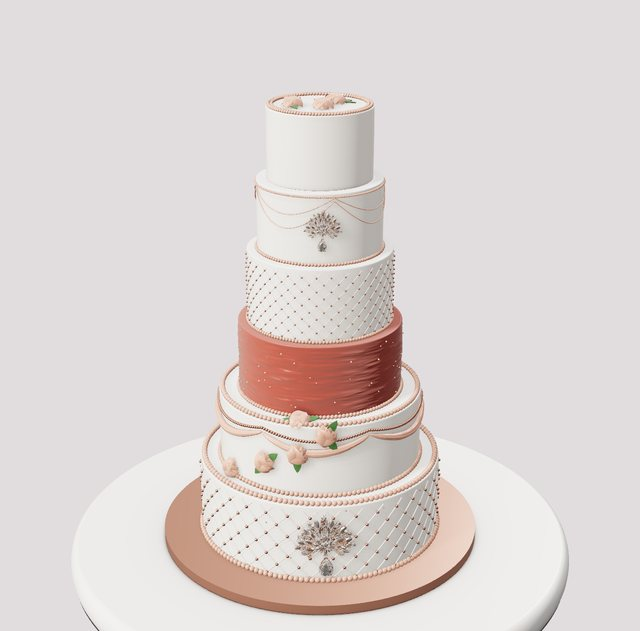
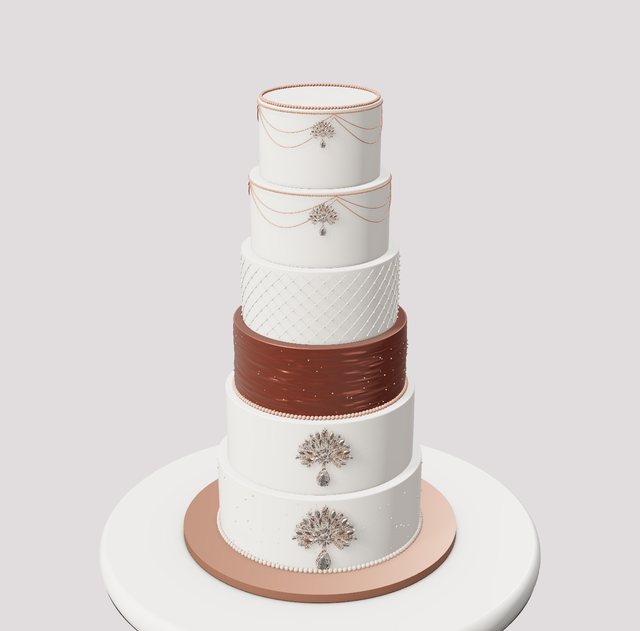
Rose gold: tier order and jewels matched to the photo (pearl-dot base, brooch bursts, copper luster, quilted pearls, jewel-chain top tiers)
Claude-Session: https://claude.ai/code/session_016sN14hzH19WJ5zrp8o2QGp

diff --git a/studio.html b/studio.html
@@ -1676,13 +1676,13 @@ THEMES.unshift(
   newTier(8.6,5.2,{color:'#fbf8f2',finish:'fondant',texture:'vruffles',edgeColor:'#c8a46a',vr:{c:135,w0:105,w1:40},top:'none',bottom:'none'}),
   newTier(7.4,5,{color:'#fbf8f2',finish:'fondant',top:'none',bottom:'none',stencil:{pattern:'lace',color:'#e6dccd',size:2.2,height:2.6,y:1.1}}),
   newTier(6.2,5.4,{color:'#fbf8f2',finish:'fondant',top:'none',bottom:'none',decor:[DC('scripttop','cluster',1,{color:'#e2ae96',size:380,center:true,face:95,text:'forever|eva'})]})]}},
- {key:'sig_rosegold',name:'Rose Gold Jewels',tag:SIG,blurb:'Six tiers of quilted ivory, jeweled chain swags, a rose gold glitter tier and rhinestone brooch bursts with rose gold roses.',d:{board:'rosegold',topper:'none',tiers:[
-  newTier(12,4,{color:'#fbf8f2',finish:'fondant',side:'quilted',sideColor:'#fbf8f2',pearlColor:'#d9a08a',top:'pearls',pipe:'#d9a08a',bottom:'pearls',bottomColor:'#d9a08a',decor:[DC('mx_brooch','band',1,{size:330,rot:55}),DC('dragees','scatter',40,{color:'#d9a08a',size:45})]}),
-  newTier(10,3.6,{color:'#fbf8f2',finish:'fondant',side:'swags',sideColor:'#d9a08a',pearlColor:'#d9a08a',top:'pearls',pipe:'#d9a08a',bottom:'pearls',bottomColor:'#d9a08a',decor:[DC('roses','cascade',5,{color:'#d9a08a',size:130,rot:-30})]}),
-  newTier(8,3.6,{color:'#98483d',finish:'fondant',texture:'stucco',top:'dpearls',topColor:'#d9a08a',bottom:'pearls',bottomColor:'#d9a08a',decor:[DC('dragees','scatter',110,{color:'#e8b9a3',size:45})]}),
-  newTier(7,3.6,{color:'#fbf8f2',finish:'fondant',side:'quilted',sideColor:'#fbf8f2',pearlColor:'#d9a08a',top:'none',bottom:'pearls',bottomColor:'#d9a08a'}),
-  newTier(6,3.4,{color:'#fbf8f2',finish:'fondant',side:'strings',pipe:'#d9a08a',top:'pearls',pipe2:'#d9a08a',bottom:'pearls',bottomColor:'#d9a08a',decor:[DC('mx_brooch','band',1,{size:200,rot:55})]}),
-  newTier(5,3.4,{color:'#fbf8f2',finish:'fondant',top:'dpearls',topColor:'#d9a08a',bottom:'none',decor:[DC('roses','cluster',3,{color:'#d9a08a',size:130})]})]}},
+ {key:'sig_rosegold',name:'Rose Gold Jewels',tag:SIG,blurb:'Six ivory tiers: pearl dots and a jeweled brooch at the base, a rhinestone burst, a copper glitter tier, quilted pearls, and two top tiers draped in rose gold jewel chains.',d:{board:'rosegold',topper:'none',tiers:[
+  newTier(11,4.2,{color:'#fbf8f2',finish:'fondant',top:'pearls',pipe:'#e3c9b8',bottom:'pearls',bottomColor:'#e3c9b8',decor:[DC('mx_brooch','band',1,{size:380,rot:55}),DC('dragees','scatter',70,{color:'#e3c9b8',size:55})]}),
+  newTier(10,4,{color:'#fbf8f2',finish:'fondant',top:'pearls',pipe:'#e3c9b8',bottom:'none',decor:[DC('mx_brooch','band',1,{size:330,rot:55,y:.2})]}),
+  newTier(9,3.8,{color:'#93503f',finish:'metallic',texture:'stucco',top:'pearls',pipe:'#d9a08a',bottom:'pearls',bottomColor:'#d9a08a',decor:[DC('dragees','scatter',140,{color:'#c98a73',size:45})]}),
+  newTier(8,3.8,{color:'#fbf8f2',finish:'fondant',side:'quilted',sideColor:'#fbf8f2',pearlColor:'#f3e9df',top:'pearls',pipe:'#f3e9df',bottom:'none'}),
+  newTier(7,3.8,{color:'#fbf8f2',finish:'fondant',side:'strings',pipe:'#c98a73',top:'pearls',pipe2:'#c98a73',bottom:'none',decor:[DC('mx_brooch','band',1,{size:170,rot:55,y:.6})]}),
+  newTier(6,3.8,{color:'#fbf8f2',finish:'fondant',side:'strings',pipe:'#c98a73',top:'pearls',pipe2:'#c98a73',bottom:'none',decor:[DC('mx_brooch','band',1,{size:140,rot:55,y:.8})]})]}},
  {key:'sig_babysky',name:'Up, Up And Away Bears',tag:SIG,blurb:'Three tall tiers airbrushed from pale sky to bright blue, covered in fondant clouds, with a ladder, a pile of gold buttons, teddy bears and ABC blocks, and a bear in a hot air balloon on top.',d:{board:'white',boardColor:'#e9eaec',topper:'none',tiers:[
   newTier(8.6,6.6,{color:'#e6f1f7',finish:'fondant',ombre:true,ombreColor:'#5aaee8',top:'none',bottom:'none',decor:[DC('clouds','scatter',22,{color:'#fbf7f1',size:190}),DC('dragees','scatter',30,{color:'#fbf7f1',size:60}),DC('mx_teddy_seated','cluster',1,{size:560,where:'board',face:55,seed:4}),DC('mx_teddy_reclining','cluster',1,{size:520,where:'board',face:55,seed:12}),DC('mx_block_c','cluster',3,{size:230,where:'board',seed:21})]}),
   newTier(7.6,6.4,{color:'#e6f1f7',finish:'fondant',ombre:true,ombreColor:'#4aa6e6',top:'none',bottom:'none',decor:[DC('clouds','scatter',18,{color:'#fbf7f1',size:190}),DC('buttons','cascade',70,{color:'#b8913f',rot:-75,size:180,wide:1.4}),DC('ladder','band',1,{color:'#fbf7f1',rot:110,size:240})]}),

diff --git a/tools/signature-decor.js b/tools/signature-decor.js
@@ -341,13 +341,13 @@ THEMES.unshift(
   newTier(8.6,5.2,{color:'#fbf8f2',finish:'fondant',texture:'vruffles',edgeColor:'#c8a46a',vr:{c:135,w0:105,w1:40},top:'none',bottom:'none'}),
   newTier(7.4,5,{color:'#fbf8f2',finish:'fondant',top:'none',bottom:'none',stencil:{pattern:'lace',color:'#e6dccd',size:2.2,height:2.6,y:1.1}}),
   newTier(6.2,5.4,{color:'#fbf8f2',finish:'fondant',top:'none',bottom:'none',decor:[DC('scripttop','cluster',1,{color:'#e2ae96',size:380,center:true,face:95,text:'forever|eva'})]})]}},
- {key:'sig_rosegold',name:'Rose Gold Jewels',tag:SIG,blurb:'Six tiers of quilted ivory, jeweled chain swags, a rose gold glitter tier and rhinestone brooch bursts with rose gold roses.',d:{board:'rosegold',topper:'none',tiers:[
-  newTier(12,4,{color:'#fbf8f2',finish:'fondant',side:'quilted',sideColor:'#fbf8f2',pearlColor:'#d9a08a',top:'pearls',pipe:'#d9a08a',bottom:'pearls',bottomColor:'#d9a08a',decor:[DC('mx_brooch','band',1,{size:330,rot:55}),DC('dragees','scatter',40,{color:'#d9a08a',size:45})]}),
-  newTier(10,3.6,{color:'#fbf8f2',finish:'fondant',side:'swags',sideColor:'#d9a08a',pearlColor:'#d9a08a',top:'pearls',pipe:'#d9a08a',bottom:'pearls',bottomColor:'#d9a08a',decor:[DC('roses','cascade',5,{color:'#d9a08a',size:130,rot:-30})]}),
-  newTier(8,3.6,{color:'#98483d',finish:'fondant',texture:'stucco',top:'dpearls',topColor:'#d9a08a',bottom:'pearls',bottomColor:'#d9a08a',decor:[DC('dragees','scatter',110,{color:'#e8b9a3',size:45})]}),
-  newTier(7,3.6,{color:'#fbf8f2',finish:'fondant',side:'quilted',sideColor:'#fbf8f2',pearlColor:'#d9a08a',top:'none',bottom:'pearls',bottomColor:'#d9a08a'}),
-  newTier(6,3.4,{color:'#fbf8f2',finish:'fondant',side:'strings',pipe:'#d9a08a',top:'pearls',pipe2:'#d9a08a',bottom:'pearls',bottomColor:'#d9a08a',decor:[DC('mx_brooch','band',1,{size:200,rot:55})]}),
-  newTier(5,3.4,{color:'#fbf8f2',finish:'fondant',top:'dpearls',topColor:'#d9a08a',bottom:'none',decor:[DC('roses','cluster',3,{color:'#d9a08a',size:130})]})]}},
+ {key:'sig_rosegold',name:'Rose Gold Jewels',tag:SIG,blurb:'Six ivory tiers: pearl dots and a jeweled brooch at the base, a rhinestone burst, a copper glitter tier, quilted pearls, and two top tiers draped in rose gold jewel chains.',d:{board:'rosegold',topper:'none',tiers:[
+  newTier(11,4.2,{color:'#fbf8f2',finish:'fondant',top:'pearls',pipe:'#e3c9b8',bottom:'pearls',bottomColor:'#e3c9b8',decor:[DC('mx_brooch','band',1,{size:380,rot:55}),DC('dragees','scatter',70,{color:'#e3c9b8',size:55})]}),
+  newTier(10,4,{color:'#fbf8f2',finish:'fondant',top:'pearls',pipe:'#e3c9b8',bottom:'none',decor:[DC('mx_brooch','band',1,{size:330,rot:55,y:.2})]}),
+  newTier(9,3.8,{color:'#93503f',finish:'metallic',texture:'stucco',top:'pearls',pipe:'#d9a08a',bottom:'pearls',bottomColor:'#d9a08a',decor:[DC('dragees','scatter',140,{color:'#c98a73',size:45})]}),
+  newTier(8,3.8,{color:'#fbf8f2',finish:'fondant',side:'quilted',sideColor:'#fbf8f2',pearlColor:'#f3e9df',top:'pearls',pipe:'#f3e9df',bottom:'none'}),
+  newTier(7,3.8,{color:'#fbf8f2',finish:'fondant',side:'strings',pipe:'#c98a73',top:'pearls',pipe2:'#c98a73',bottom:'none',decor:[DC('mx_brooch','band',1,{size:170,rot:55,y:.6})]}),
+  newTier(6,3.8,{color:'#fbf8f2',finish:'fondant',side:'strings',pipe:'#c98a73',top:'pearls',pipe2:'#c98a73',bottom:'none',decor:[DC('mx_brooch','band',1,{size:140,rot:55,y:.8})]})]}},
  {key:'sig_babysky',name:'Up, Up And Away Bears',tag:SIG,blurb:'Three tall tiers airbrushed from pale sky to bright blue, covered in fondant clouds, with a ladder, a pile of gold buttons, teddy bears and ABC blocks, and a bear in a hot air balloon on top.',d:{board:'white',boardColor:'#e9eaec',topper:'none',tiers:[
   newTier(8.6,6.6,{color:'#e6f1f7',finish:'fondant',ombre:true,ombreColor:'#5aaee8',top:'none',bottom:'none',decor:[DC('clouds','scatter',22,{color:'#fbf7f1',size:190}),DC('dragees','scatter',30,{color:'#fbf7f1',size:60}),DC('mx_teddy_seated','cluster',1,{size:560,where:'board',face:55,seed:4}),DC('mx_teddy_reclining','cluster',1,{size:520,where:'board',face:55,seed:12}),DC('mx_block_c','cluster',3,{size:230,where:'board',seed:21})]}),
   newTier(7.6,6.4,{color:'#e6f1f7',finish:'fondant',ombre:true,ombreColor:'#4aa6e6',top:'none',bottom:'none',decor:[DC('clouds','scatter',18,{color:'#fbf7f1',size:190}),DC('buttons','cascade',70,{color:'#b8913f',rot:-75,size:180,wide:1.4}),DC('ladder','band',1,{color:'#fbf7f1',rot:110,size:240})]}),

diff --git a/tools/sig-themes.js b/tools/sig-themes.js
@@ -32,13 +32,13 @@ THEMES.unshift(
   newTier(8.6,5.2,{color:'#fbf8f2',finish:'fondant',texture:'vruffles',edgeColor:'#c8a46a',vr:{c:135,w0:105,w1:40},top:'none',bottom:'none'}),
   newTier(7.4,5,{color:'#fbf8f2',finish:'fondant',top:'none',bottom:'none',stencil:{pattern:'lace',color:'#e6dccd',size:2.2,height:2.6,y:1.1}}),
   newTier(6.2,5.4,{color:'#fbf8f2',finish:'fondant',top:'none',bottom:'none',decor:[DC('scripttop','cluster',1,{color:'#e2ae96',size:380,center:true,face:95,text:'forever|eva'})]})]}},
- {key:'sig_rosegold',name:'Rose Gold Jewels',tag:SIG,blurb:'Six tiers of quilted ivory, jeweled chain swags, a rose gold glitter tier and rhinestone brooch bursts with rose gold roses.',d:{board:'rosegold',topper:'none',tiers:[
-  newTier(12,4,{color:'#fbf8f2',finish:'fondant',side:'quilted',sideColor:'#fbf8f2',pearlColor:'#d9a08a',top:'pearls',pipe:'#d9a08a',bottom:'pearls',bottomColor:'#d9a08a',decor:[DC('mx_brooch','band',1,{size:330,rot:55}),DC('dragees','scatter',40,{color:'#d9a08a',size:45})]}),
-  newTier(10,3.6,{color:'#fbf8f2',finish:'fondant',side:'swags',sideColor:'#d9a08a',pearlColor:'#d9a08a',top:'pearls',pipe:'#d9a08a',bottom:'pearls',bottomColor:'#d9a08a',decor:[DC('roses','cascade',5,{color:'#d9a08a',size:130,rot:-30})]}),
-  newTier(8,3.6,{color:'#98483d',finish:'fondant',texture:'stucco',top:'dpearls',topColor:'#d9a08a',bottom:'pearls',bottomColor:'#d9a08a',decor:[DC('dragees','scatter',110,{color:'#e8b9a3',size:45})]}),
-  newTier(7,3.6,{color:'#fbf8f2',finish:'fondant',side:'quilted',sideColor:'#fbf8f2',pearlColor:'#d9a08a',top:'none',bottom:'pearls',bottomColor:'#d9a08a'}),
-  newTier(6,3.4,{color:'#fbf8f2',finish:'fondant',side:'strings',pipe:'#d9a08a',top:'pearls',pipe2:'#d9a08a',bottom:'pearls',bottomColor:'#d9a08a',decor:[DC('mx_brooch','band',1,{size:200,rot:55})]}),
-  newTier(5,3.4,{color:'#fbf8f2',finish:'fondant',top:'dpearls',topColor:'#d9a08a',bottom:'none',decor:[DC('roses','cluster',3,{color:'#d9a08a',size:130})]})]}},
+ {key:'sig_rosegold',name:'Rose Gold Jewels',tag:SIG,blurb:'Six ivory tiers: pearl dots and a jeweled brooch at the base, a rhinestone burst, a copper glitter tier, quilted pearls, and two top tiers draped in rose gold jewel chains.',d:{board:'rosegold',topper:'none',tiers:[
+  newTier(11,4.2,{color:'#fbf8f2',finish:'fondant',top:'pearls',pipe:'#e3c9b8',bottom:'pearls',bottomColor:'#e3c9b8',decor:[DC('mx_brooch','band',1,{size:380,rot:55}),DC('dragees','scatter',70,{color:'#e3c9b8',size:55})]}),
+  newTier(10,4,{color:'#fbf8f2',finish:'fondant',top:'pearls',pipe:'#e3c9b8',bottom:'none',decor:[DC('mx_brooch','band',1,{size:330,rot:55,y:.2})]}),
+  newTier(9,3.8,{color:'#93503f',finish:'metallic',texture:'stucco',top:'pearls',pipe:'#d9a08a',bottom:'pearls',bottomColor:'#d9a08a',decor:[DC('dragees','scatter',140,{color:'#c98a73',size:45})]}),
+  newTier(8,3.8,{color:'#fbf8f2',finish:'fondant',side:'quilted',sideColor:'#fbf8f2',pearlColor:'#f3e9df',top:'pearls',pipe:'#f3e9df',bottom:'none'}),
+  newTier(7,3.8,{color:'#fbf8f2',finish:'fondant',side:'strings',pipe:'#c98a73',top:'pearls',pipe2:'#c98a73',bottom:'none',decor:[DC('mx_brooch','band',1,{size:170,rot:55,y:.6})]}),
+  newTier(6,3.8,{color:'#fbf8f2',finish:'fondant',side:'strings',pipe:'#c98a73',top:'pearls',pipe2:'#c98a73',bottom:'none',decor:[DC('mx_brooch','band',1,{size:140,rot:55,y:.8})]})]}},
  {key:'sig_babysky',name:'Up, Up And Away Bears',tag:SIG,blurb:'Three tall tiers airbrushed from pale sky to bright blue, covered in fondant clouds, with a ladder, a pile of gold buttons, teddy bears and ABC blocks, and a bear in a hot air balloon on top.',d:{board:'white',boardColor:'#e9eaec',topper:'none',tiers:[
   newTier(8.6,6.6,{color:'#e6f1f7',finish:'fondant',ombre:true,ombreColor:'#5aaee8',top:'none',bottom:'none',decor:[DC('clouds','scatter',22,{color:'#fbf7f1',size:190}),DC('dragees','scatter',30,{color:'#fbf7f1',size:60}),DC('mx_teddy_seated','cluster',1,{size:560,where:'board',face:55,seed:4}),DC('mx_teddy_reclining','cluster',1,{size:520,where:'board',face:55,seed:12}),DC('mx_block_c','cluster',3,{size:230,where:'board',seed:21})]}),
   newTier(7.6,6.4,{color:'#e6f1f7',finish:'fondant',ombre:true,ombreColor:'#4aa6e6',top:'none',bottom:'none',decor:[DC('clouds','scatter',18,{color:'#fbf7f1',size:190}),DC('buttons','cascade',70,{color:'#b8913f',rot:-75,size:180,wide:1.4}),DC('ladder','band',1,{color:'#fbf7f1',rot:110,size:240})]}),
